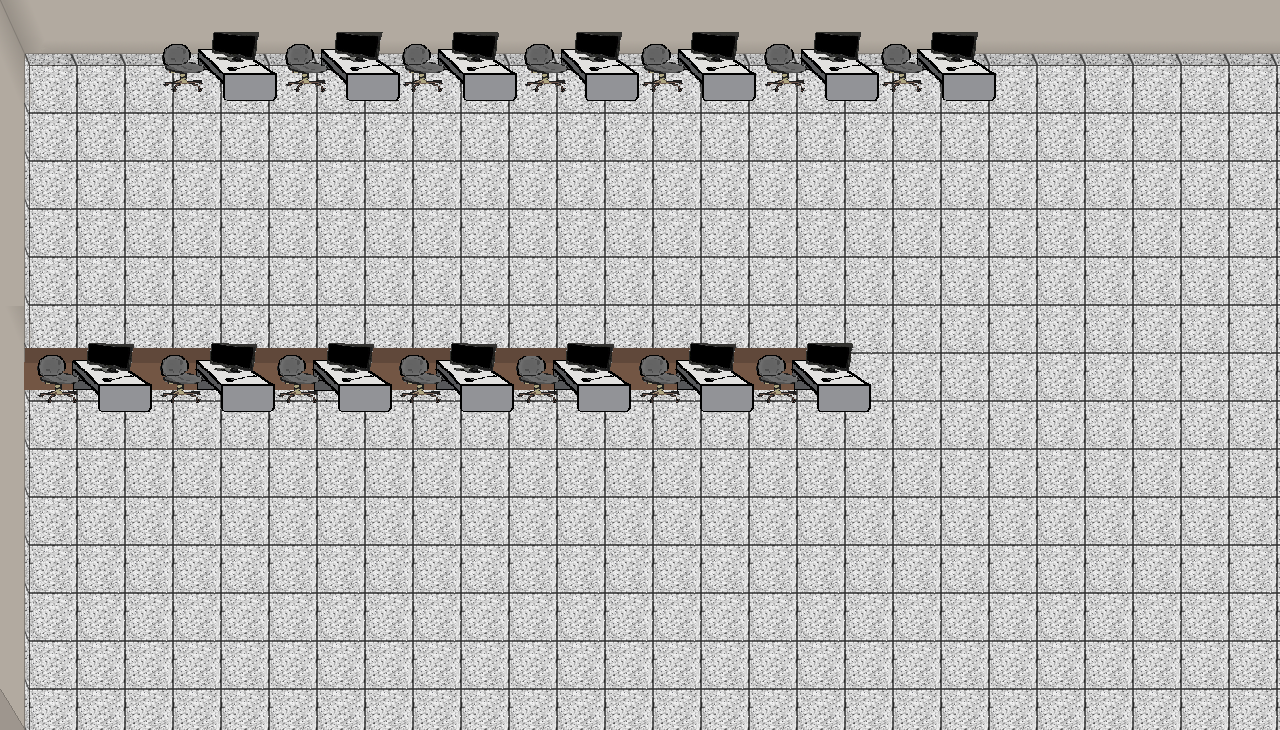
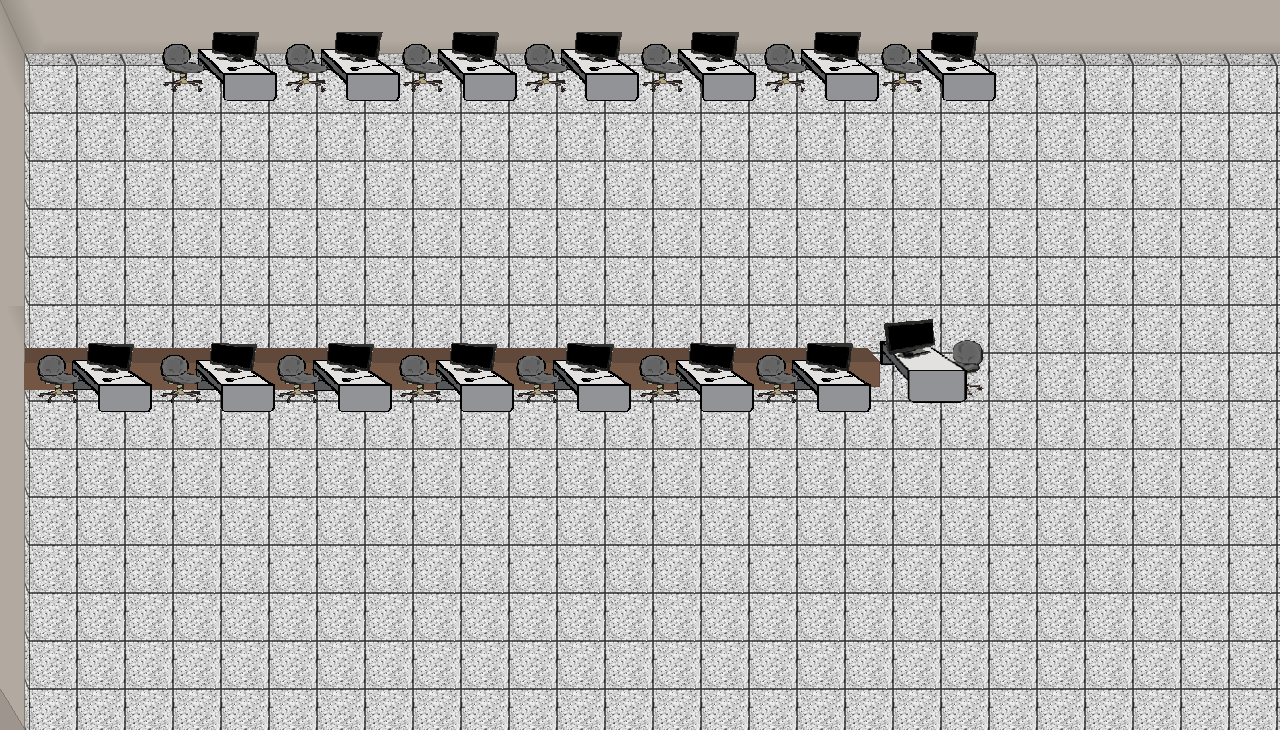
Boss2 Sore file added

Changed region(s): [[0.6562, 0.4219, 0.7812, 0.5726]]

diff --git a/Somber/Boss2.cpp b/Somber/Boss2.cpp
@@ -19,12 +19,11 @@ void Boss2::LoadRes()
 	loadFromFile(heartFull, "res/heart_full.png");
 	loadFromFile(heartHalf, "res/heart_half.png");
 	loadFromFile(heartEmpty, "res/heart_empty.png");
-	loadFromFile(exitLit, "res/exitLit.png");
+	loadFromFile(doorTex, "res/door.png");
 	loadFromFile(bulletSoundBuf, "res/Sounds/40_smith_wesson_8x_gunshot-mike-koenig_2.wav");
 	sf::SoundBuffer tempBuf;
 	loadFromFile(tempBuf, "res/Sounds/Zombie Gets Attacked-SoundBible.com-20348330.wav");
 	zombieSoundBuf.insert({ "zombie_attacked", tempBuf });
-	Boss2ScoreFile.open("res/file/Boss2ScoreFile.txt", ios::in | ios::out);
 	font.loadFromFile("res/Font/unispace bd.ttf");
 	highestScoreTex.loadFromFile("res/HighScoreTag.png");
 	scoreCardTex.loadFromFile("res/scoreCard.png");
@@ -36,7 +35,12 @@ void Boss2::LoadRes()
 void Boss2::Init(Engine* game)
 {
 	game->app->setMouseCursorVisible(false);
-	Boss2ScoreFile >> topScore;
+	ifstream Boss2ScoreFileIn;
+	Boss2ScoreFileIn.open("res/file/Boss2ScoreFile.txt");
+	Boss2ScoreFileIn >> topScore;
+	Boss2ScoreFileIn.close();
+
+	fileClose = 0;
 	midPCTex.setSmooth(true);
 	highestScoreTag.setTexture(highestScoreTex);
 	scoreCard.setTexture(scoreCardTex);
@@ -46,12 +50,15 @@ void Boss2::Init(Engine* game)
 	midPC.setTexture(midPCTex);
 	bottomPC.setTexture(midPCTex);
 	centreTable.setTexture(centreTableTex);
-	centreTable.setScale(.3, .25);
-	centreTable.setPosition(windowWidth - 100, 300);
+	//centreTable.setScale(.3, .25);
+	centreTable.setPosition(880, 319);
 	
 	midPC.setPosition(25,300);
 	bottomPC.setPosition(25,windowHeight-42);
-	
+	door.setTexture(doorTex);
+	door.setTextureRect(IntRect(0, 0, doorTex.getSize().x/ 2, doorTex.getSize().y));
+	door.setScale(0.85, 0.75);
+	door.setPosition(50,-10);
 
 	player.Init(playerSpriteSheet, 0.1f, 300.f);
 	player.setScale(1.4, 1.4);
@@ -102,15 +109,15 @@ void Boss2::Init(Engine* game)
 	//ScoreText.setColor(sf::Color::White);
 	ScoreText.setPosition(windowWidth - 150, 0);
 	topScoreText.setPosition(3000, 3000);
-	exit.setScale(0.4f, 0.4f);
+	//exit.setScale(0.4f, 0.4f);
 
 	ostringstream TopScoreString;
 	TopScoreString << "TOP SCORE : " << topScore;//////////////////Score
 	topScoreText.setString(TopScoreString.str());
 
 	//exit.setPosition(0, windowHeight - 60);
-	exit.setPosition(1e7, 1e7);
-	exit.setTexture(exitLit);
+	//exit.setPosition(1e7, 1e7);
+	//exit.setTexture(exitLit);
 	exitTimer.restart();
 
 	// sound
@@ -123,8 +130,9 @@ void Boss2::Init(Engine* game)
 
 	//Init
 
-	player.dontIntersect(sf::FloatRect(0.f,325.f,875.f,49.f));
+	player.dontIntersect(sf::FloatRect(0.f,322.f,870,49));
 	player.dontIntersect(sf::FloatRect(160,42,843,28));
+	player.dontIntersect(sf::FloatRect(880,347,108,22));
 }
 
 void Boss2::Cleanup()
@@ -262,20 +270,23 @@ void Boss2::Update(Engine * game, double dt)
 			}
 			for (int i = 0; i < zombies.size(); i++)
 			{
-				if (player.getPosition().x<845&&player.getPosition().y<352&&zombies[i].object.getPosition().y>347&&zombies[i].object.getPosition().x<850)
-					zombies[i].object.move(zombieSpeed * dt*dtMul, 0);
-				else if (player.getPosition().x < 845 && player.getPosition().y > 360 && zombies[i].object.getPosition().y<358 && zombies[i].object.getPosition().x < 850)
-					zombies[i].object.move(zombieSpeed * dt*dtMul, 0);
+				if (player.getPosition().y<390 && zombies[i].object.getPosition().y>295&&zombies[i].object.getPosition().x<985)
+					zombies[i].object.move(zombieSpeed * dt*dtMul*2, 0);
+				else if (player.getPosition().y > 295 && zombies[i].object.getPosition().y<390 && zombies[i].object.getPosition().x < 985)
+					zombies[i].object.move(zombieSpeed * dt*dtMul*2, 0);
 				else
 				{
 					if (zombies[i].object.getPosition().x > player.getPosition().x) zombies[i].object.move(-zombieSpeed * dt*dtMul, 0);
 					if (zombies[i].object.getPosition().x < player.getPosition().x) zombies[i].object.move(zombieSpeed*dt*dtMul, 0);
 					if (zombies[i].object.getPosition().y > player.getPosition().y) zombies[i].object.move(0, -zombieSpeed * dt*dtMul);
 					if (zombies[i].object.getPosition().y < player.getPosition().y) zombies[i].object.move(0, zombieSpeed*dt*dtMul);
-					if (zombies[i].object.getPosition().x < 0 || zombies[i].object.getPosition().y < 0 || zombies[i].object.getPosition().x >windowWidth || zombies[i].object.getPosition().y > windowHeight)
-					{
-						zombies.erase(zombies.begin() + i);
-					}
+					//if (zombies[i].object.getPosition().x < 0 || zombies[i].object.getPosition().y < 0 || zombies[i].object.getPosition().x >windowWidth || zombies[i].object.getPosition().y > windowHeight)
+				}
+				if (zombies[i].object.getPosition().x < 984 && zombies[i].object.getPosition().y>291 && zombies[i].object.getPosition().y < 389)
+				{
+					zombies[i].object.move(zombieSpeed * dt*dtMul, 0);
+					if (zombies[i].object.getPosition().y > player.getPosition().y) zombies[i].object.move(0, -zombieSpeed * dt*dtMul);
+					else zombies[i].object.move(0, zombieSpeed*dt*dtMul);
 				}
 			}
 			if (zombieEatStep.getElapsedTime().asMilliseconds() > 10)
@@ -299,20 +310,31 @@ void Boss2::Update(Engine * game, double dt)
 		}
 
 		// Exit level
-		if (exitTimer.getElapsedTime().asSeconds() > 60.0)
+		if (exitTimer.getElapsedTime().asSeconds() > 10.0)
 		{
-			exit.setPosition(0, windowHeight - 60);
-			if (player.intersects(exit.getGlobalBounds()))
+			door.setTextureRect(IntRect(doorTex.getSize().x / 2, 0, doorTex.getSize().x / 2, doorTex.getSize().y));
+			//.setPosition(0, windowHeight - 60);
+			if (player.intersects(door.getGlobalBounds()))
 			{
 				zombies.clear();
 				ScoreText.setCharacterSize(50);
 				ScoreText.setPosition(350, 200);
 				scoreCard.setPosition(0, 0);
-				if (Score > topScore) highestScoreTag.setPosition(350, 300);
+				
+				if (Score > topScore)
+				{
+					if (!fileClose)
+					{
+						ofstream Boss2ScoreFileOut;
+						Boss2ScoreFileOut.open("res/file/Boss2ScoreFile.txt");
+						Boss2ScoreFileOut << Score;
+						Boss2ScoreFileOut.close();
+					}
+					highestScoreTag.setPosition(350, 300);
+				}
 					else topScoreText.setPosition(400, 300);
-				//Boss2ScoreFile.seekp(0);
-				//Boss2ScoreFile<< Score;
-				Boss2ScoreFile.close();
+				fileClose = 1;
+				
 				if(Keyboard::isKeyPressed(Keyboard::Enter))
 					popScene(game);
 			}
@@ -325,14 +347,16 @@ void Boss2::Draw(RenderWindow * app)
 {
 	app->draw(floor);
 	app->draw(target);
+	app->draw(door);
 	player.drawTo(app);
+	for (int i = 0; i < zombies.size(); i++)
+		app->draw(zombies[i].object);
 	app->draw(centreTable);
 	app->draw(midPC);
 	app->draw(bottomPC);
 	for (int i = 0; i < player.bullets.size(); i++)
 		app->draw(player.bullets[i].object);
-	for (int i = 0; i < zombies.size(); i++)
-		app->draw(zombies[i].object);
+
 
 	app->draw(heart1);
 	app->draw(heart2);
@@ -344,5 +368,5 @@ void Boss2::Draw(RenderWindow * app)
 	app->draw(topScoreText);
 	app->draw(highestScoreTag);
 	
-	app->draw(exit);
+	
 };

diff --git a/Somber/Undead.cpp b/Somber/Undead.cpp
@@ -3,7 +3,7 @@
 Undead::Undead(sf::Texture * texture1, sf::Texture * texture2, sf::Texture * texture3)
 {
 	maxHealth = rand() % 3 + 1;
-	position = rand() % 8 + 1;
+	position = rand() % 7 + 1;
 	health = maxHealth;
 	if (maxHealth == 1)
 		object.setTexture(*texture1);
@@ -13,19 +13,17 @@ Undead::Undead(sf::Texture * texture1, sf::Texture * texture2, sf::Texture * tex
 		object.setTexture(*texture3);
 	object.setScale(.1, .1);
 	if (position == 1)
-		object.setPosition(1180, 100);
+		object.setPosition(930, 90);//
 	else if (position == 2)
-		object.setPosition(1180, 360);
+		object.setPosition(755, 580);//
 	else if (position == 3)
-		object.setPosition(1180, 620);
+		object.setPosition(1000, 345);//
 	else if (position == 4)
-		object.setPosition(640, 620);
+		object.setPosition(570, 90);//
 	else if (position == 5)
-		object.setPosition(100, 620);
+		object.setPosition(80, 580);//
 	else if (position == 6)
-		object.setPosition(100, 360);
+		object.setPosition(400, 580);//
 	else if (position == 7)
-		object.setPosition(100, 100);
-	else if (position == 8)
-		object.setPosition(640, 100);
+		object.setPosition(210, 90);//
 }

diff --git a/Somber/Boss2.h b/Somber/Boss2.h
@@ -56,13 +56,16 @@ private:
 	float bulletTime = 60;
 	float zombieSpeed = .5;
 	float spawnTime = 0;
+	float moveTime;
 	int topScore;
+	bool fileClose;
 	sf::Sprite target;
 	sf::Sprite highestScoreTag;
 	sf::Sprite  scoreCard;
 	sf::Sprite floor;
 	sf::Sprite bottomPC;
 	sf::Sprite midPC;
+
 	sf::Sprite centreTable;
 	std::vector<Undead>zombies;
 	sf::Texture bulletTexture;
@@ -80,7 +83,8 @@ private:
 	sf::Texture centreTableTex;
 	sf::Mouse mouse;
 	eClock zombieEatStep;
-	std::fstream Boss2ScoreFile;
+	
+
 
 	// life variables
 	float heartDim = 16;
@@ -96,13 +100,14 @@ private:
 	sf::RectangleShape heart5;
 
 	// exit variables
-	sf::Texture exitLit;
-	sf::Sprite exit;
+	sf::Texture doorTex;
+	//sf::Texture doorOpenTex;
+	sf::Sprite door;
 	sf::Font font;
 	sf::Text ScoreText;
 	sf::Text topScoreText;
 	eClock exitTimer;
-
+	
 	// bullet sound
 	sf::SoundBuffer bulletSoundBuf;
 	sf::Sound bulletSound;

diff --git a/Somber/undead.h b/Somber/undead.h
@@ -11,4 +11,5 @@ public:
 	int health;
 	int maxHealth;
 	int position;
+	float preX, preY;
 };
